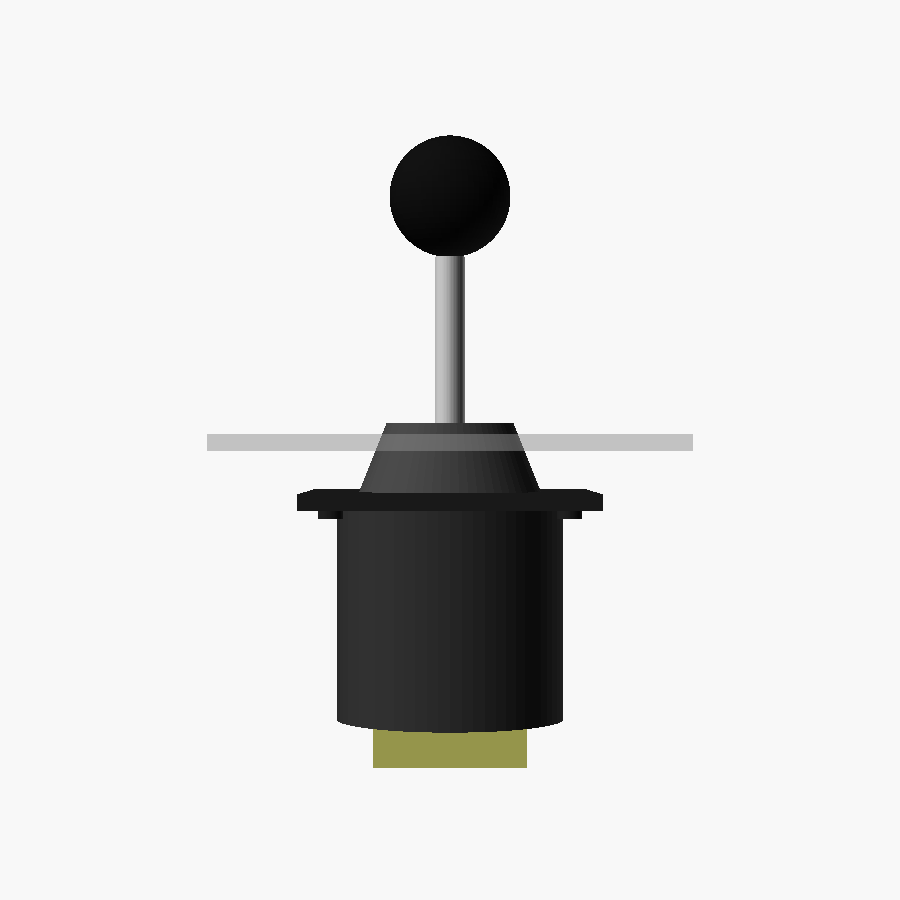
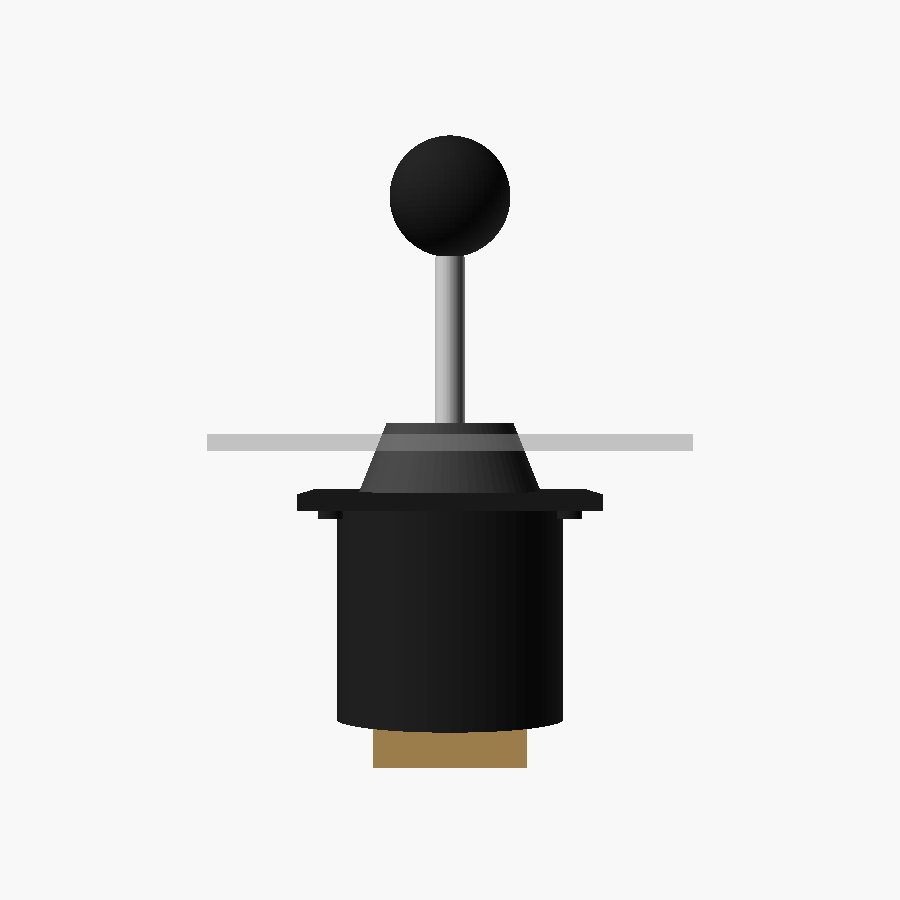
Harden OpenSCAD feedback loop
- Add parts/utils.scad: color palette (COLOR_METAL/PCB/PLASTIC/...),
  print_bed_check() per-part bed-fit diagnostic, explode_shift() helper.
- Elevate render-check gate in SKILL.md to a named non-negotiable section:
  validate_scad -> analyze_model (implicit CGAL manifold check) ->
  render_perspectives -> Read PNGs. Document the MCP output_format gotcha.
- Add BOSL2 section-view cheatsheet (back_half/left_half/bottom_half) to
  libraries.md and a new pitfall entry for overlapping-solids bugs that
  renders hide but analyze_model catches (the 2mm overlap from last session).
- joystick.scad: adopt COLOR_* constants; add SHOW_STANDALONE/SHOW_SECTION/
  SHOW_MOCK_PANEL flags so MCP variable injection drives render variants
  without file edits.
- Refresh parts/renders/*.png to the current palette.

Changed region(s): [[0.4044, 0.8089, 0.5911, 0.8711]]

diff --git a/.claude/skills/openscad-hardware/SKILL.md b/.claude/skills/openscad-hardware/SKILL.md
@@ -17,19 +17,26 @@ You (the LLM) cannot see 3D shapes directly. This skill closes the gap with thre
 - Any work under `hardware/`
 - User asks to model a physical part, enclosure, bracket, or mount
 
-## Required workflow
+## The render-check gate (non-negotiable sequence)
+
+After every geometric change, run this exact sequence before reporting progress:
+
+1. **`validate_scad`** — catches syntax errors and deprecated calls in a few ms.
+2. **`analyze_model`** — exports STL via CGAL internally, so success here means the geometry is manifold. **This is your CGAL gate** — if it succeeds, preview-only CSG problems (non-manifold, zero-thickness, bad `difference`) are ruled out. Also: *always* cross-check the returned bounding-box dimensions against the numbers you expect from `parameters.scad`. Mismatches >0.1mm mean overlapping or gapped solids (see `pitfalls.md` #10).
+3. **`render_perspectives`** with `output_format="file_path"` — 7 views, iso + 6 orthogonal.
+4. **`Read` the PNGs** — you are multimodal; look at each one. Describe what you see back to the user. "It looks correct" without a Read call is a lie.
+
+If any step fails, fix before proceeding. Declaring done without this gate is the #1 bug source.
+
+## Workflow
 
 1. **Check `parameters.scad`** in the relevant directory. If it doesn't exist, create it and put every numeric constant there — nothing hardcoded in part files.
 2. **Use BOSL2 for all composition**. `include <BOSL2/std.scad>` (not `use` — BOSL2's anchor constants `TOP`/`BOTTOM`/`LEFT`/... require `include`). Prefer `attach(TOP) cuboid(...)` over `translate([...])` — any time you find yourself writing a `translate` with more than one non-zero offset, stop and ask whether `attach()` / `position()` expresses it better. See `references/libraries.md`.
-3. **Use NopSCADlib for standard parts**: screws, heat-set inserts, boards, displays, connectors. Do not re-model what nophead already modeled correctly. See `references/libraries.md`.
-4. **Render and look** after every geometric change:
-   - `render_perspectives` via MCP (iso + 6 orthographic) — preferred
-   - `Read` each returned PNG and describe what you see
-   - For internal geometry, add a section view (`difference()` with a half-space)
-   - For assemblies, add an explode parameter that separates parts along Z
-5. **Validate** before marking done:
-   - `validate_scad` (MCP) or a full CGAL render catches non-manifold / CSG issues that preview misses
-   - `analyze_model` (MCP) gives bounding box — cross-check against print bed
+3. **Use NopSCADlib for standard parts**: screws, heat-set inserts, boards, displays, connectors. Do not re-model what nophead already modeled correctly.
+4. **Use `utils.scad` for colors and helpers** — `COLOR_METAL`, `COLOR_PCB`, etc. for consistent vitamin rendering; `print_bed_check()` in each printed part; `explode_shift()` in assemblies.
+5. **Internal geometry** — when a part has pockets, bosses, or ribs, render a section view. Easiest: BOSL2's `back_half()`, `left_half()`, or `bottom_half()` wrapped around your part module — see `references/libraries.md`.
+6. **Iterating on a part** — when changing a part that already renders, use MCP `compare_renders` to produce a side-by-side before/after. Essential when the user says "move it 5mm" and you need to verify the delta actually landed.
+7. Run the render-check gate (above).
 
 ## Library policy
 

diff --git a/.claude/skills/openscad-hardware/references/libraries.md b/.claude/skills/openscad-hardware/references/libraries.md
@@ -43,6 +43,23 @@ cuboid([40,40,10]) {
 - `grid_copies(n=[nx,ny], spacing=[sx,sy])` — 2D grid
 - `mirror_copy(v=[1,0,0])` — keep original + mirror
 
+### Section views (see inside a part)
+
+Wrap the part in one of these to see its internal geometry without extra geometry code:
+
+- `back_half()` — shows only +Y half (cut along XZ plane through origin)
+- `front_half()` — shows only -Y half
+- `left_half()`, `right_half()` — cut along YZ plane
+- `top_half()`, `bottom_half()` — cut along XY plane
+- All accept `s=size` (cube size of cut plane, default 1000) and `cp=point` to shift the cut plane
+
+```openscad
+// Render full part normally, or sliced down the middle for inspection
+SHOW_SECTION = false;
+if (SHOW_SECTION) back_half() my_part();
+else my_part();
+```
+
 ### Transforms (when anchors don't fit)
 
 - `up(z)`, `down(z)`, `left(x)`, `right(x)`, `fwd(y)`, `back(y)` — readable single-axis translate
